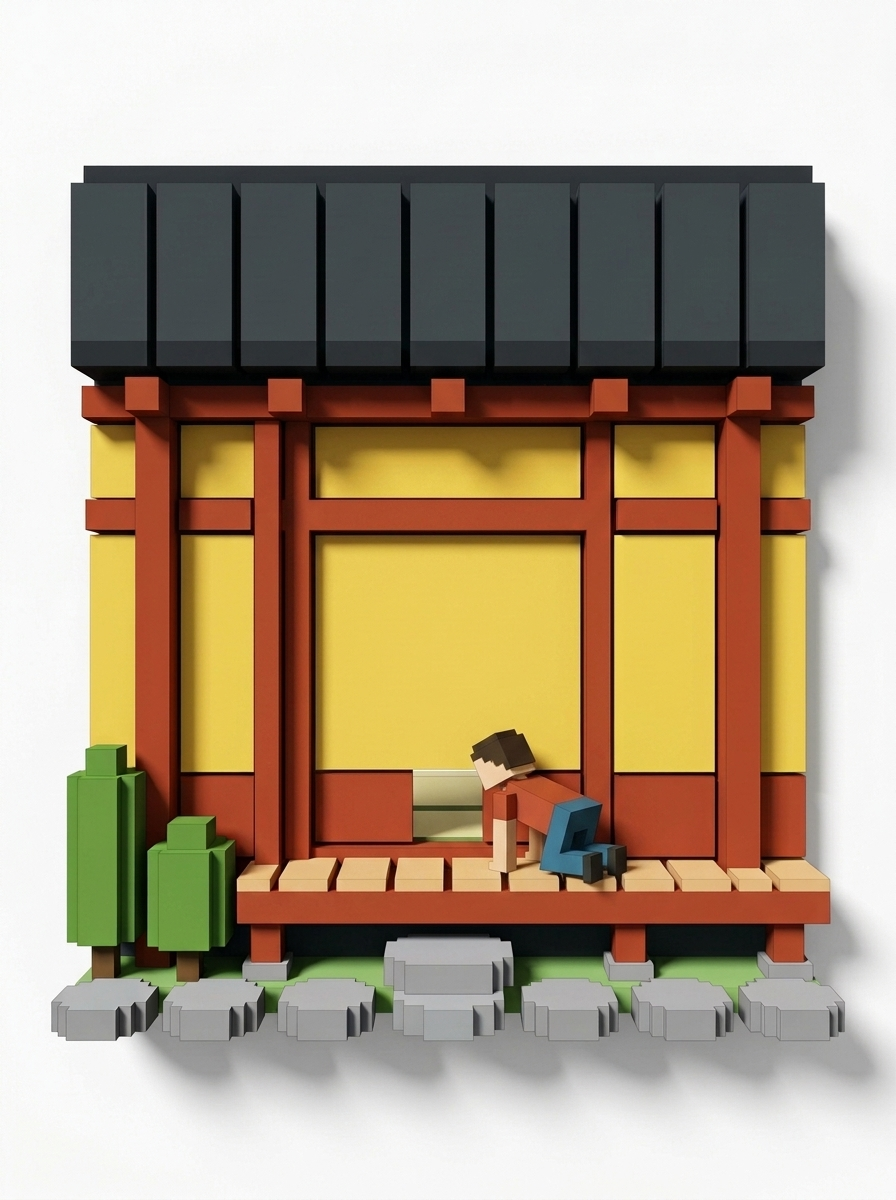
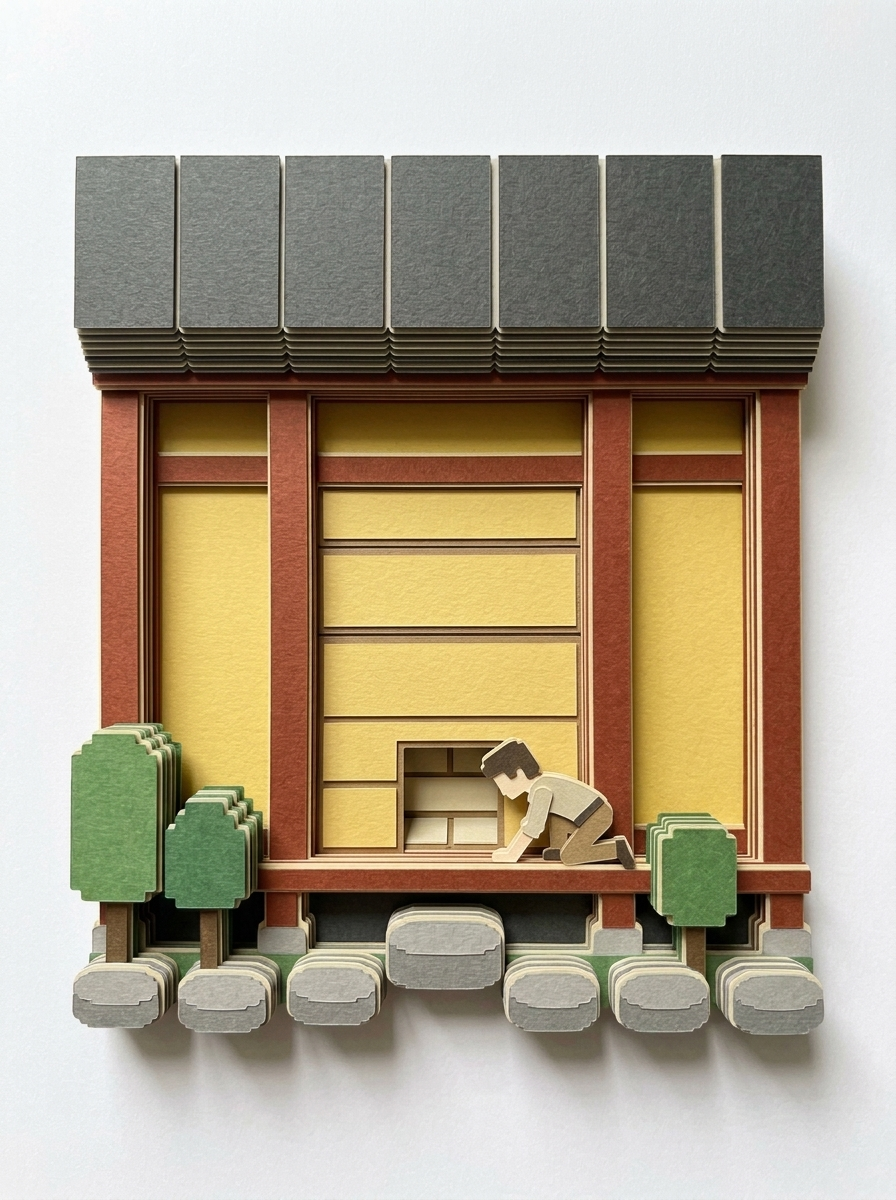
CASE 01：横から見ると紙が積み重なっている切り紙にする
一枚ずつ切り出した紙を貼り重ね、切り口に紙の厚みと枚数が出るようにした。
白抜きは影の縁でぎざつくのでやめ、地の色を紙と同じ白へ持ち上げる方式にした。

diff --git a/src/webgl/shaders.ts b/src/webgl/shaders.ts
@@ -566,7 +566,7 @@ export const plateFragmentShader = /* glsl */ `
       // 絵を敷くときに MC を下に残すと、絵の透けた部分から模型が覗く。
       if (uHasArt < 0.5) col = MC;
       if (uHasArt > 0.5) {
-        // 板の地は抜いてある。版面いっぱいに、まるごと収めて敷く。
+        // 絵の地は紙と同じ白。版面いっぱいに、まるごと収めて敷く。
         vec2 rc = vec2(0.0, -0.012);
         vec2 rh = vec2(hx, 0.398);
         vec2 auv = (pa - rc) / (rh * 2.0) + 0.5;
@@ -577,9 +577,8 @@ export const plateFragmentShader = /* glsl */ `
         else                 auv.x = 0.5 + (auv.x - 0.5) * (ra / uArtAspect);
 
         if (auv.x > 0.0 && auv.x < 1.0 && auv.y > 0.0 && auv.y < 1.0) {
-          // 板の地は抜いてあるので、紙がそのまま地になる
-          vec4 a = mix(texture2D(uArtA, auv), texture2D(uArtB, auv), te);
-          col = mix(col, a.rgb, clamp(a.a, 0.0, 1.0));
+          // 絵の地は版の紙と同じ白に合わせてあるので、そのまま敷ける
+          col = mix(texture2D(uArtA, auv), texture2D(uArtB, auv), te).rgb;
         }
       }
     }

diff --git a/src/webgl/plateArtVersion.ts b/src/webgl/plateArtVersion.ts
@@ -1,5 +1,5 @@
 // tools/shrink-plate.py が書き出す。直接いじらない。
 // 絵の中身から作った版番号。URLに付けて、古い絵が居座るのを防ぐ。
 export const PLATE_ART_VERSION: Record<string, string> = {
-  "01": "f2bf2607bb"
+  "01": "8b52e456e6"
 } as const;

diff --git a/tools/shrink-plate.py b/tools/shrink-plate.py
@@ -3,10 +3,10 @@
 
     python3 tools/shrink-plate.py 01
 
-地はまっ白とはかぎらない（#f6f6f6 くらいで返ってくる）。決め打ちの
-しきい値ではなく、**四隅の実際の色**を種にして、縁からつながっている
-ぶんだけを塗りつぶしで抜く。レリーフの落ち影は地より暗いので残り、
-版の紙の上にそのまま落ちる。
+**白抜きはしない。** 紙の上に落ちた影の縁で切れてぎざつくため。
+かわりに四隅から地の色を測り、そこが255になるように全体を持ち上げる。
+地が版の紙と同じ白になるので、そのまま敷いても継ぎ目が出ない。
+影は地より暗いぶんだけ残る。
 """
 import hashlib
 import json
@@ -15,10 +15,9 @@ import re
 import sys
 
 import numpy as np
-from PIL import Image, ImageDraw, ImageFilter
+from PIL import Image
 
 ID = sys.argv[1] if len(sys.argv) > 1 else "01"
-KEY = (255, 0, 255)  # 塗りつぶしの目印。絵には出てこない色。
 VERSION_TS = "src/webgl/plateArtVersion.ts"
 
 for name in (f"{ID}-before", f"{ID}-after"):
@@ -29,37 +28,17 @@ for name in (f"{ID}-before", f"{ID}-after"):
                ((2, 2), (src.width - 3, 2), (2, src.height - 3), (src.width - 3, src.height - 3))]
     ground = tuple(int(np.median([c[i] for c in corners])) for i in range(3))
 
-    pad = 3
-    canvas = Image.new("RGB", (src.width + pad * 2, src.height + pad * 2), ground)
-    canvas.paste(src, (pad, pad))
-    # 影は地より十分暗いので、しきい値は狭くてよい
-    ImageDraw.floodfill(canvas, (0, 0), KEY, thresh=10)
-
-    arr = np.asarray(canvas)
-    bg = np.all(arr == np.array(KEY, dtype=np.uint8), axis=-1)
-
-    alpha = Image.fromarray(np.where(bg, 0, 255).astype(np.uint8), "L")
-    alpha = alpha.filter(ImageFilter.GaussianBlur(0.8))
-    alpha = alpha.point(lambda v: 0 if v < 70 else min(255, int((v - 70) * 255 / 150)))
-
-    out = canvas.convert("RGBA")
-    out.putalpha(alpha)
-    px = np.array(out)
-    hit = np.all(px[:, :, :3] == np.array(KEY, dtype=np.uint8), axis=-1)
-    px[hit, :3] = ground  # 半透明の縁に目印の色が出ないように
-    out = Image.fromarray(px, "RGBA").crop(Image.fromarray(np.array(alpha)).getbbox())
-
-    # 縁を完全な透明で囲う（版の側で端の画素が引き伸ばされるのを防ぐ）
-    edge = 6
-    framed = Image.new("RGBA", (out.width + edge * 2, out.height + edge * 2), (255, 255, 255, 0))
-    framed.paste(out, (edge, edge))
-    out = framed
+    # 抜かずに、地を版の紙と同じ白へ合わせる。
+    # 抜こうとすると、紙の上に落ちた影の縁で切れてぎざつく（実際に出た）。
+    gain = 255.0 / max(1, int(np.mean(ground)))
+    arr = np.asarray(src).astype(np.float32) * gain
+    out = Image.fromarray(np.clip(arr, 0, 255).astype(np.uint8), "RGB")
 
     w = 760
     out = out.resize((w, round(w * out.height / out.width)), Image.LANCZOS)
     path = f"public/plates/{name}.webp"
-    out.save(path, "WEBP", quality=90, method=6)
-    print(name, "地", ground, out.size, os.path.getsize(path), "bytes")
+    out.save(path, "WEBP", quality=92, method=6)
+    print(name, "地", ground, "→白", out.size, os.path.getsize(path), "bytes")
 
 
 # 絵を差し替えてもURLが同じだと、ブラウザが古い絵を返し続ける。
